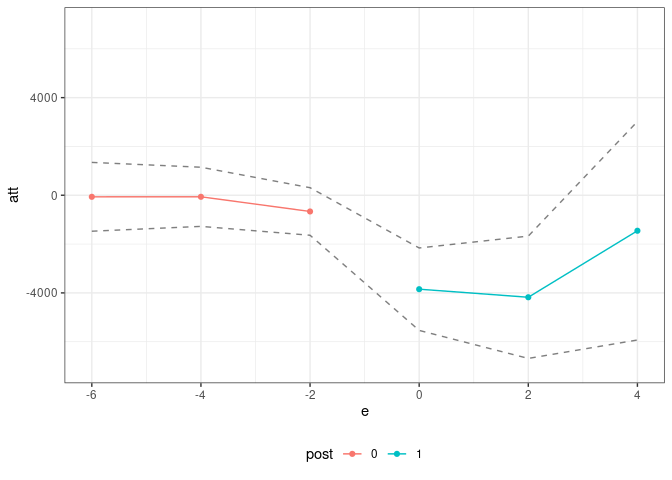
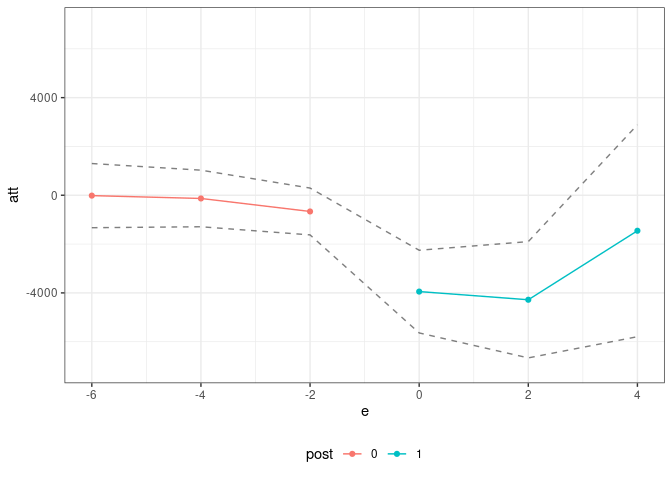
improving documentation

diff --git a/README.md b/README.md
@@ -12,8 +12,8 @@ where a researcher has access to panel data (or, hopefully in the near
 future, repeated cross sections data) and where untreated potential
 outcomes are generated by an interactive fixed effects model.
 
-The package is not currently available on CRAN, but it can be the
-development version of the package can be installed from github by
+The package is not currently available on CRAN, but the development
+version of the package can be installed from github by
 
 ``` r
 # install.packages("devtools")
@@ -46,17 +46,17 @@ summary(res)
 #> 
 #> Overall ATT:  
 #>        ATT    Std. Error     [ 90%  Conf. Int.]  
-#>  -3913.851      1182.007  -5858.079   -1969.622 *
+#>  -3976.881      1090.314  -5770.288   -2183.473 *
 #> 
 #> 
 #> Dynamic Effects:
 #>  Event Time   Estimate Std. Error     [90%  Conf. Band]  
-#>          -6   -63.8360   856.9402 -1473.377   1345.7051  
-#>          -4   -63.4326   736.7646 -1275.303   1148.4374  
-#>          -2  -664.5203   592.2105 -1638.620    309.5792  
-#>           0 -3848.8739  1026.9530 -5538.061  -2159.6864 *
-#>           2 -4179.1319  1523.2116 -6684.592  -1673.6717 *
-#>           4 -1454.0791  2721.0421 -5929.795   3021.6368  
+#>          -6   -15.0413   799.3065 -1329.784   1299.7008  
+#>          -4  -131.3128   704.7982 -1290.603   1027.9771  
+#>          -2  -664.5203   583.2066 -1623.810    294.7692  
+#>           0 -3946.5861  1029.6344 -5640.184  -2252.9882 *
+#>           2 -4281.1615  1448.1993 -6663.237  -1899.0856 *
+#>           4 -1454.0791  2638.9179 -5794.713   2886.5545  
 #> ---
 #> Signif. codes: `*' confidence band does not cover 0
 ggpte(res) + ylim(c(-7000,7000))
@@ -66,11 +66,13 @@ ggpte(res) + ylim(c(-7000,7000))
 
 We also have some code for running *individual-specific linear trends
 models*. These are a special case of the interactive fixed effects
-models that we consider in the paper, but where the factors \(F_t\) are
-restricted to be equal to \(t\). We mostly argue *against* these sorts
-of models in the paper, but one advantage is that they do not require
-any restrictions/assumptions about finding a covariate whose effects do
-not change over time.
+models that we consider in the paper, but where the factors
+![F\_t](https://latex.codecogs.com/png.image?%5Cdpi%7B110%7D&space;%5Cbg_white&space;F_t
+"F_t") are restricted to be equal to
+![t](https://latex.codecogs.com/png.image?%5Cdpi%7B110%7D&space;%5Cbg_white&space;t
+"t"). We mostly argue *against* these sorts of models in the paper, but
+one advantage is that they do not require any restrictions/assumptions
+about finding a covariate whose effects do not change over time.
 
 This code also implements a version of linear trends that is specific to
 untreated potential outcomes. Presumably, many of the same criticisms
@@ -97,17 +99,17 @@ summary(lt_res)
 #> 
 #> Overall ATT:  
 #>        ATT    Std. Error     [ 90%  Conf. Int.]  
-#>  -3463.467      1239.059  -5501.538   -1425.396 *
+#>  -3463.467      1295.812  -5594.889   -1332.045 *
 #> 
 #> 
 #> Dynamic Effects:
 #>  Event Time   Estimate Std. Error     [90%  Conf. Band]  
-#>          -6   -17.6954   818.3984 -1363.841   1328.4503  
-#>          -4   -69.4965   712.1606 -1240.897   1101.9034  
-#>          -2  -586.0360   644.8390 -1646.702    474.6297  
-#>           0 -3599.9237  1191.2933 -5559.427  -1640.4205 *
-#>           2 -3628.0465  1704.2076 -6431.218   -824.8745 *
-#>           4   326.6318  3146.7251 -4849.270   5502.5340  
+#>          -6   -17.6954   813.6816 -1356.083   1320.6918  
+#>          -4   -69.4965   682.0795 -1191.418   1052.4244  
+#>          -2  -586.0360   657.4395 -1667.428    495.3557  
+#>           0 -3599.9237  1129.9602 -5458.543  -1741.3045 *
+#>           2 -3628.0465  1669.3106 -6373.818   -882.2749 *
+#>           4   326.6318  3096.5574 -4766.752   5420.0155  
 #> ---
 #> Signif. codes: `*' confidence band does not cover 0
 ggpte(lt_res) + ylim(c(-7000,7000))

diff --git a/NEWS.md b/NEWS.md
@@ -1,0 +1,7 @@
+# 0.0.901
+
+* Adds code for Callaway and Tsyawo (2023) that is based on exploiting staggered treatment adoption to generate additional moment conditions in order to recover the parameters of an interactive fixed effects model for untreated potential outcomes.
+
+# 0.0.900
+
+* Initial version, includes code for Callaway and Karami (2023) that is based on using a time-invariant covariate with a time-invariant effect on untreated potential outcomes to identify the parameters of interactive fixed effects model for untreated potential outcomes.
